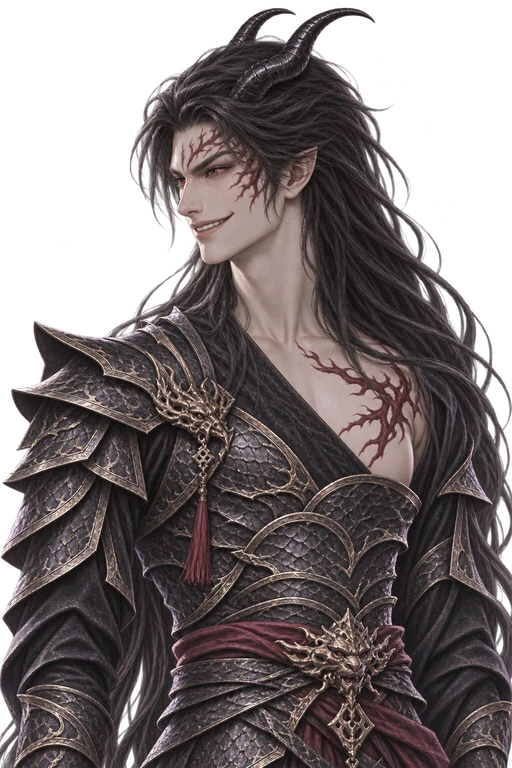
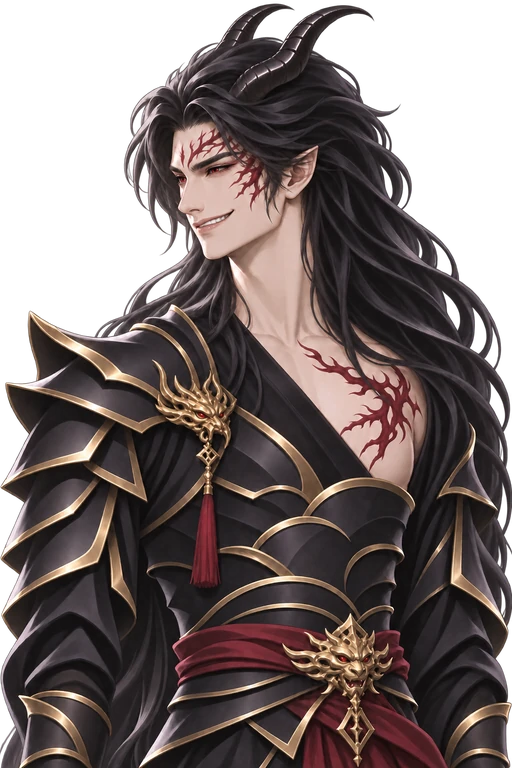
v602 魔族真身换 Codex R191 重画版（游戏画风）：待机 / 出手 / 受击按相对倍率画，撕斗篷变身 30 帧、真身对话立绘三张一起换
Claude-Session: https://claude.ai/code/session_01MLmwgsq8MPeyfrTaz8BRE2

diff --git a/game/r189_models.js b/game/r189_models.js
@@ -15,10 +15,13 @@
   const dropVS = () => { try { if (window.VSPRITES) delete VSPRITES.e_zhouhu; if (window.RIG_MAP) delete RIG_MAP.e_zhouhu; } catch (e) {} };
   // dropVS(); setTimeout(dropVS, 3000);   // 周虎新模型接进来时再打开
   if (window.BATTLE_SIZE) Object.assign(BATTLE_SIZE, { e_mozu2: BATTLE_SIZE.e_mozu || 300, e_yyq_m: 240, e_yyq_f: 228 });
+  // 待机可见高（px，原画 720 高里人物占的高度）+ 出手 / 受击相对待机的绘制倍率（R191 战斗模型参数.json）
+  const REL = { e_mozu2: { idleH: 707, idle: 1, atk: 2.1352, hit: 1.44898 } };
+  { const c = document.createElement('canvas'); c.width = c.height = 1; IMG.__r189_none = c; }
   const pose = u => u.hurt > .15 ? 'hit' : (u.pose === 'atk' || u.pose === 'cast') ? 'atk' : 'idle';
 
   // ---------- 魔族撕斗篷变身（30 帧 · 15fps · 2 秒；图集缩到一半：每格 336×384，6 列，脚底锚点 168,372）----------
-  const TF = { cols: 6, n: 30, fps: 15, fw: 336, fh: 384, ax: 168, ay: 372, src: 2 /* 图集像素 → 原画像素 */, idleH: 716 };
+  const TF = { cols: 6, n: 30, fps: 15, fw: 336, fh: 384, ax: 168, ay: 372, src: 2 /* 图集像素 → 原画像素 */, idleH: 707 };
   load('tf', 'r189/mozu2_tf.webp');
   for (const n of ['default', 'angry', 'grin']) load('p_' + n, 'r189/p_mozu2_' + n + '.webp', im => { IMG['p_mozu2_' + n] = im; if (typeof MEDAL_FACE !== 'undefined') MEDAL_FACE['p_mozu2_' + n] = { fx: .5, fy: .22, span: .4 }; });
   function drawTF(u, t) {
@@ -30,8 +33,15 @@
   }
   drawUnit = (o => function (u) {
     if (u && u._tf != null && u.alive) { const t = performance.now() / 1000 - u._tf; if (drawTF(u, t)) return; }
-    const set = u && u.side === 'enemy' && SETS[u.key], k = set && u.key + '__' + pose(u);
+    const set = u && u.side === 'enemy' && SETS[u.key], ps = set && pose(u), k = set && u.key + '__' + ps;
     if (!k || !IMG[k]) return o(u);
+    // R191：三张姿态都是 400×720 整幅、脚底在底边中点；出手 / 受击按 Codex 给的「相对待机倍率」画（招式伸展大、人缩在画幅里）
+    const R = REL[u.key]; if (R && u.alive) {
+      const im = IMG[k], now = performance.now() / 1000, sc = u.h / R.idleH * (R[ps] || 1), w = im.width * sc * (720 / im.height), h = 720 * sc;
+      const x = u.x + u.ox + (u.hurt > 0 ? Math.sin(now * 80) * 8 * u.hurt : 0), y = u.y + u.oy;
+      const k0 = u.key; u.key = '__r189_none'; try { o(u); } finally { u.key = k0; }   // 影子、血条、名字照旧（本体不画）
+      ctx.save(); if (u.hurt > .5) ctx.filter = 'brightness(2.2)'; ctx.drawImage(im, x - w / 2, y - h, w, h); ctx.restore(); return;
+    }
     const k0 = u.key; u.key = k; try { return o(u); } finally { u.key = k0; }
   })(drawUnit);
 
